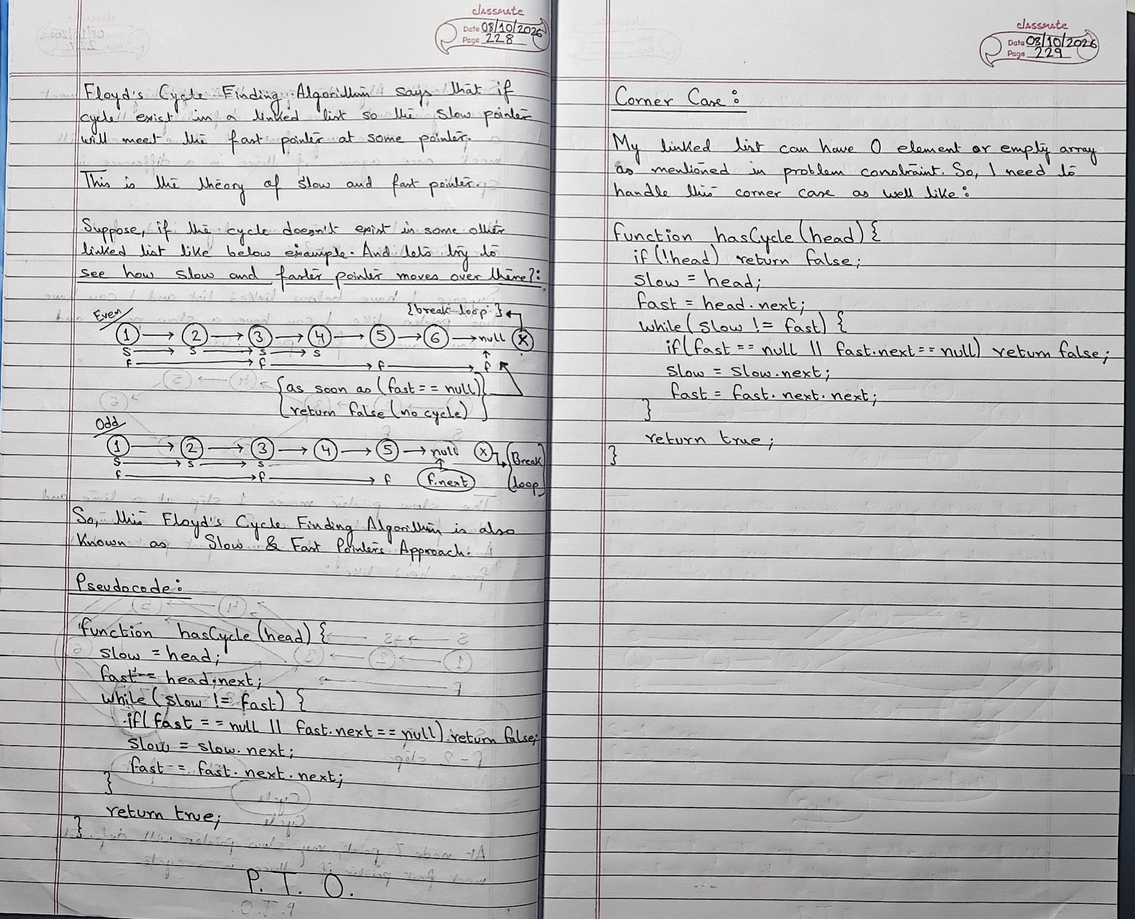
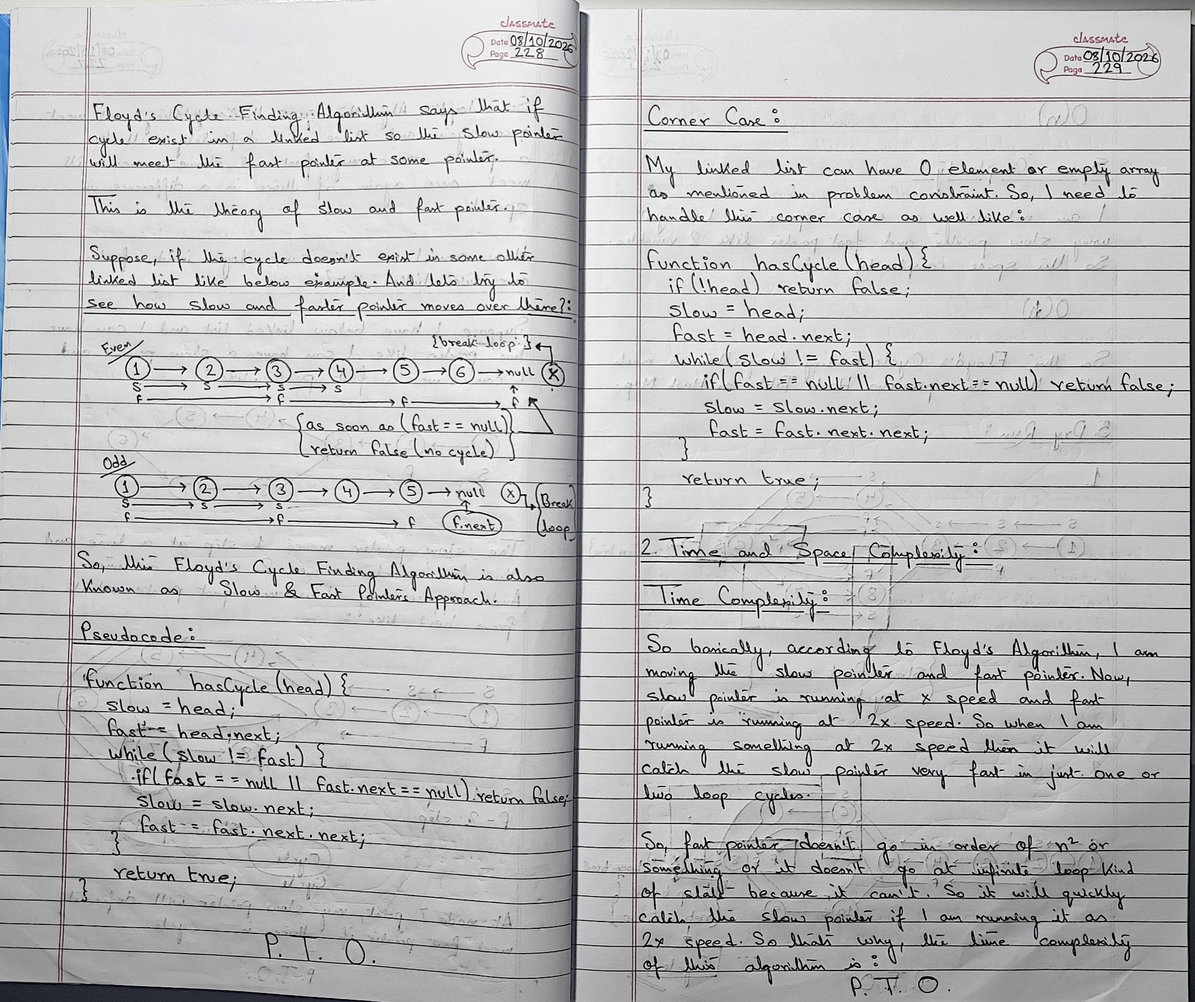
Add palindrome linked list solution
Add an array-based palindrome check with accompanying notes and page. Expand Floyd cycle detection notes with complexity and dry-run explanations, and update the linked-list notes images.

Changed region(s): [[0.0, 0.0, 1.0, 1.0]]

diff --git a/src/linked-list-easy-or-medium/palindrome-linked-list/index.html b/src/linked-list-easy-or-medium/palindrome-linked-list/index.html
@@ -1,0 +1,19 @@
+<!DOCTYPE html>
+<html lang="en">
+
+<head>
+  <meta charset="UTF-8">
+  <meta name="viewport" content="width=device-width, initial-scale=1.0">
+  <title>Palindrome Linked List</title>
+  <link rel="icon" type="image/png" href="../../../assets/img/favicon/favicon-96x96.png" sizes="96x96" />
+  <link rel="icon" type="image/svg+xml" href="../../../assets/img/favicon/favicon.svg" />
+  <link rel="shortcut icon" href="../../../assets/img/favicon/favicon.ico" />
+  <link rel="apple-touch-icon" sizes="180x180" href="../../../assets/img/favicon/apple-touch-icon.png" />
+  <link rel="manifest" href="../../../assets/img/favicon/site.webmanifest" />
+</head>
+
+<body>
+  <script src="./script.js" defer></script>
+</body>
+
+</html>

diff --git a/src/linked-list-easy-or-medium/palindrome-linked-list/script.js b/src/linked-list-easy-or-medium/palindrome-linked-list/script.js
@@ -1,0 +1,22 @@
+// =============================================
+// Palindrome Linked List
+// =============================================
+
+// Solution:
+// =============================================
+// Use case: 01
+// =============================================
+var isPalindrome = function (head) {
+  if (!head || head.length == 1) return false;
+  let arr = new Array();
+  let curr = head;
+  while (curr) {
+    arr.push(curr.val);
+    curr = curr.next;
+  }
+  let n = arr.length;
+  for (let i = 0; i < n / 2; i++) {
+    if (arr[i] !== arr[n - i - 1]) return false;
+  }
+  return true;
+};

diff --git a/src/linked-list-easy-or-medium/linked-list-cycle-floyd-algorithm/README.md b/src/linked-list-easy-or-medium/linked-list-cycle-floyd-algorithm/README.md
@@ -223,3 +223,47 @@ The important corner case is the empty linked list:
 head = null
 → return false
 ```
+
+### 2. Time and Space Complexity
+
+#### Time Complexity
+
+According to Floyd’s Algorithm, I am moving the slow pointer and fast pointer. The slow pointer is running at `x` speed and the fast pointer is running at `2x` speed.
+
+When I am running something at `2x` speed, it will catch the slow pointer very fast, in just one or two loop cycles.
+
+The fast pointer does not go in the order of `n²` or something, and it does not go into an infinite loop because it cannot. It will quickly catch the slow pointer if I am running it at `2x` speed.
+
+So, the time complexity of this algorithm is:
+
+`O(n)`
+
+### Space Complexity
+
+I am not using any extra space, so I am just using the slow pointer and fast pointer, like two variables.
+
+So, the space complexity is:
+
+`O(1)`
+
+So, this Floyd’s Cycle-Finding Algorithm is much better than the previous **Hash Table or Hash Map** approach.
+
+### 3. Dry Run
+
+#### Case 1
+
+The diagram shows a linked list whose pointers eventually meet:
+
+`1 → 2 → 3 → 4 → 5 → 6 → 7 → 8 → (back into the list)`
+
+The slow (`S`) and fast (`F`) pointers move through the list. When **Slow = Fast**, that means a **cycle** is present.
+
+#### Case 2
+
+The second diagram shows another list:
+
+`1 → 2 → 3 → 4 → 5 → 6 → 7 → 8 → 9 → 10 → (back into the list)`
+
+The pointers eventually meet as well, so the loop breaks and the function returns `true`.
+
+The diagrams illustrate that when slow and fast pointers meet, a cycle is detected.

diff --git a/src/linked-list-easy-or-medium/palindrome-linked-list/README.md b/src/linked-list-easy-or-medium/palindrome-linked-list/README.md
@@ -1,0 +1,33 @@
+### 1. Problem understanding
+
+Basically, I have to check whether the given linked list is a palindrome. If it is a palindrome, I have to return `true`; otherwise, return `false`.
+
+Examples drawn in the notes:
+
+- `1 → 2 → 2 → 1` — palindrome
+- `1 → 2` — not a palindrome
+
+Let's see how to solve it.
+
+The linked list below is a palindrome:
+
+`HEAD → 1 → 2 → 3 → 3 → 2 → 1 → null`
+
+There are two approaches to solve whether the above linked list is a palindrome or not:
+
+1. The easy and straightforward approach.
+2. A second approach, to be discussed later.
+
+### 2. Approach 1
+
+In approach 1, I can convert the above linked list to an array, and then I need to check whether the array is a palindrome.
+
+#### How to convert this linked list?
+
+Basically, I can push all its elements into an array, and my array will become something like this:
+
+| Index |   0 |   1 |   2 |   3 |   4 |   5 |
+| ----- | --: | --: | --: | --: | --: | --: |
+| Value |   1 |   2 |   3 |   3 |   2 |   1 |
+
+`n = 6`
